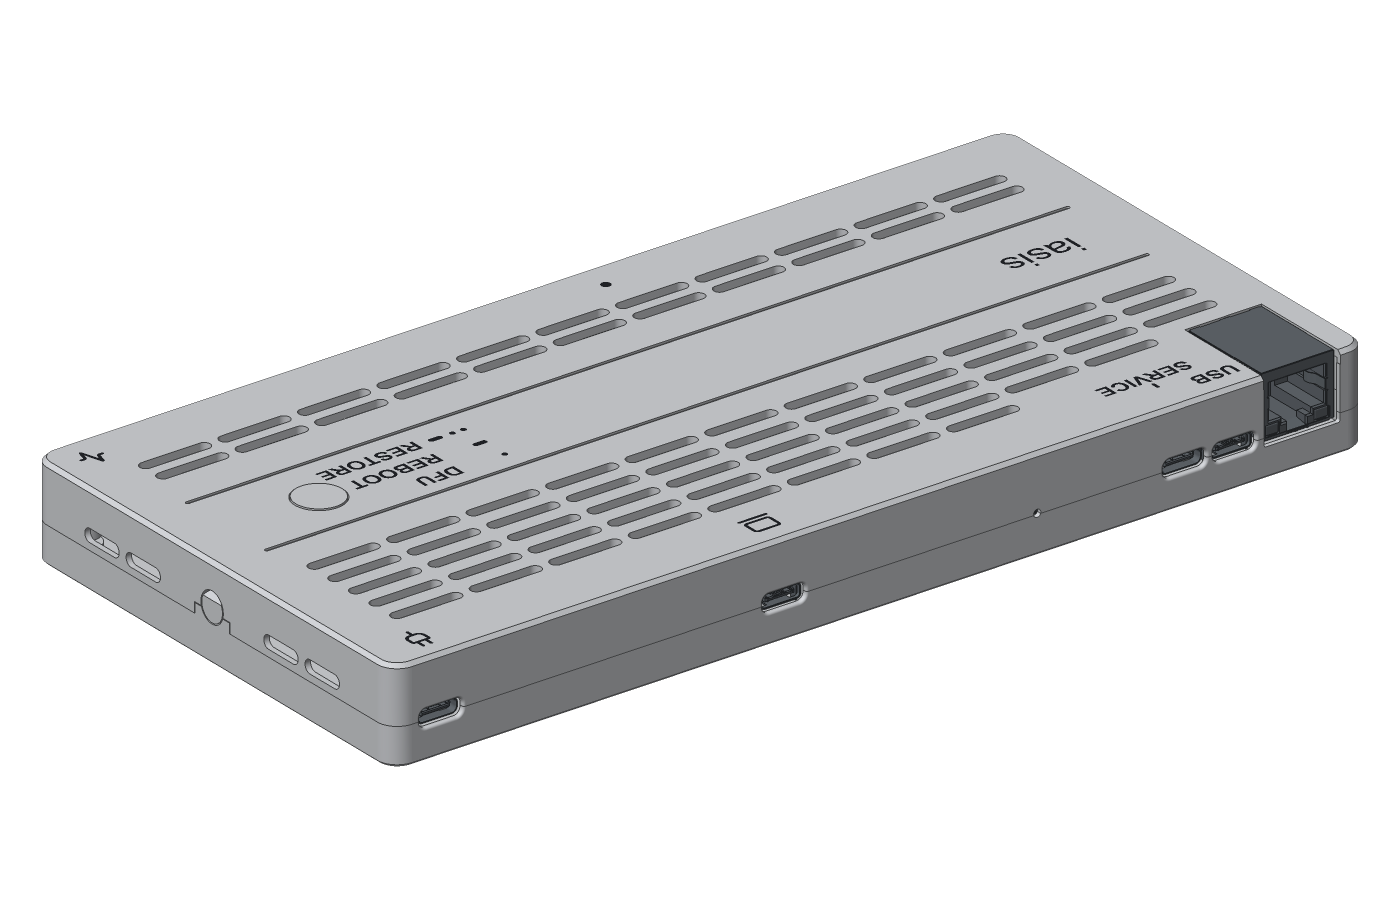
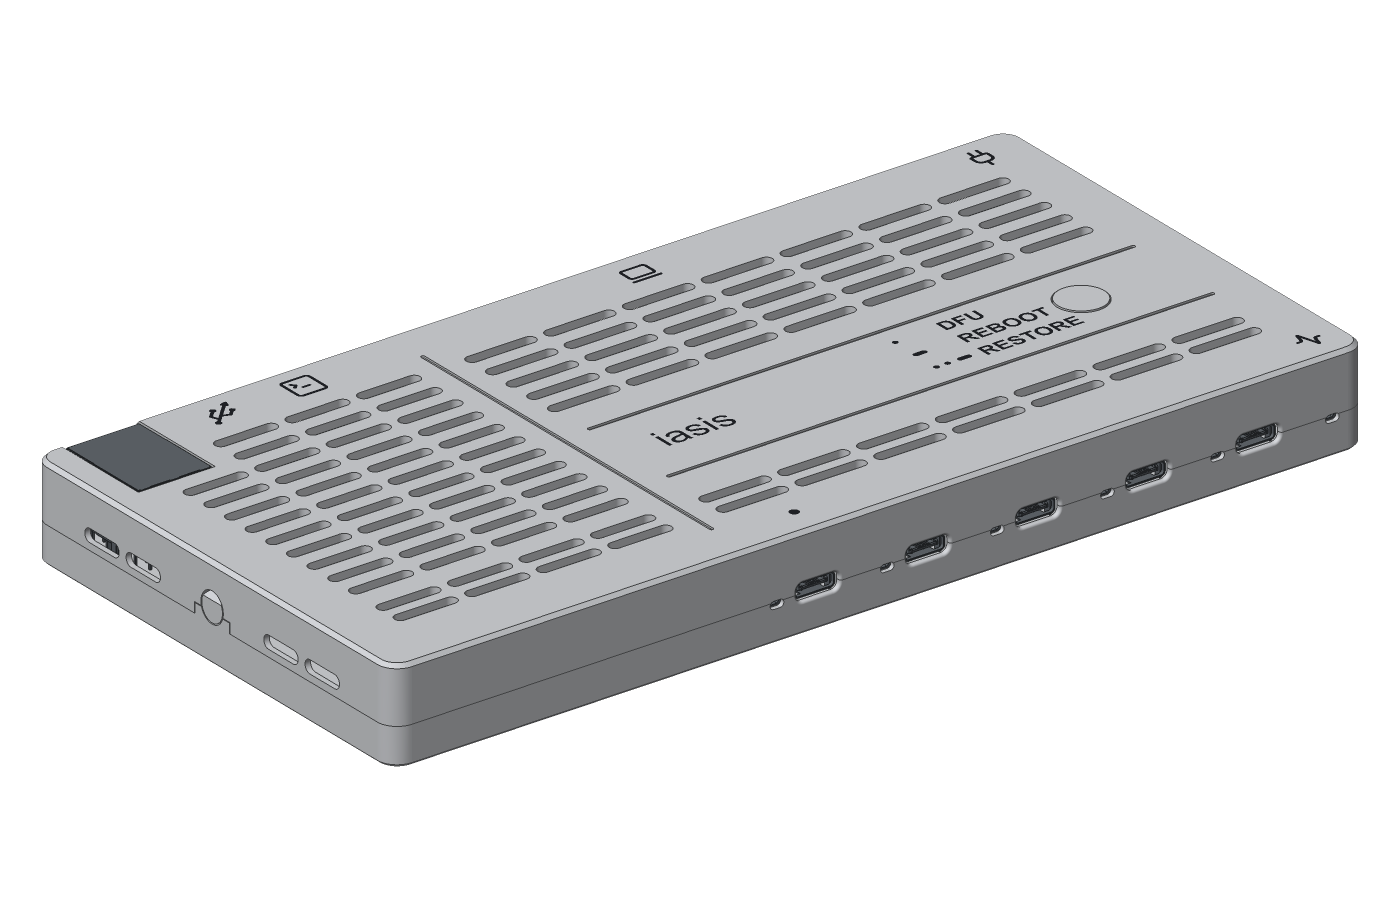
feat(case): separate CM5 cooling and controls

diff --git a/hardware/case/src/iasis_case/case.py b/hardware/case/src/iasis_case/case.py
@@ -47,7 +47,7 @@ from .artwork import icon
 from .board import Board, load
 from .retention import DisplayFrame, Joint
 from .side import assemble as side_board
-from .side import pair
+from .side import Pair, pair
 
 # Fit
 CLEARANCE = 0.3  # board edge to inner wall
@@ -224,6 +224,14 @@ class Layout:
     @property
     def y_rear(self) -> float:
         return self.width / 2
+
+    @property
+    def divider_x(self) -> float | None:
+        return self.board.join_x if isinstance(self.board, Pair) else None
+
+    @property
+    def control_left(self) -> float:
+        return self.divider_x + 6 if self.divider_x is not None else -self.length / 2 + 10
 
     @cached_property
     def openings(self) -> list[Opening]:
@@ -579,7 +587,7 @@ def _artwork(lay: Layout) -> list[Sketch]:
         Pos(power.X, lay.y_rear - 7) * icon("plug"),
         Pos(first.X, lay.y_front + 7) * Circle(1),
         Pos(status.X, lay.y_front + 7) * icon("activity", size=5.5),
-        Pos(-lay.length / 2 + 25, sw.Y)
+        Pos(lay.control_left + 15, sw.Y)
         * Text(WORDMARK, font_size=WORDMARK_SIZE),
     ]
     x = sw.X - 36
@@ -593,13 +601,10 @@ def _artwork(lay: Layout) -> list[Sketch]:
             marks.append(Pos(x, y) * Circle(0.6))
             if action == "RESTORE":
                 marks += [Pos(x + 2.4, y) * Circle(0.6), Pos(x + 6.1, y) * SlotOverall(3, 1.2)]
-    for ref, label, inset in (("S:J401", "USB", 6), ("S:J501", "SERVICE", 12)):
+    for ref, symbol in (("S:J401", "usb"), ("S:J501", "square-terminal")):
         if ref in lay.ports:
-            marks.append(Pos(lay.board.box(ref).center().X, lay.y_rear - inset)
-                         * Text(label, font_size=TEXT_SIZE, font_style=FontStyle.BOLD))
-    if "S:J501" in lay.ports:
-        marks.append(Pos(lay.board.box("S:J501").center().X, lay.y_rear - 8.6)
-                     * RectangleRounded(0.7, 2, 0.34))
+            marks.append(Pos(lay.board.box(ref).center().X, lay.y_rear - 7)
+                         * icon(symbol, size=8))
     return marks
 
 
@@ -648,10 +653,14 @@ def _display_keepout(lay: Layout, display: Display) -> Sketch:
 
 def _control_grooves(lay: Layout, top: float, display: Display | None) -> list[Part]:
     grooves = []
+    left, right = lay.control_left, lay.length / 2 - 10
     for y in (2, -21):
-        profile = Pos(0, y) * SlotOverall(lay.length - 20, 0.8)
+        profile = Pos((left + right) / 2, y) * SlotOverall(right - left, 0.8)
         if display:
             profile -= _display_keepout(lay, display)
+        grooves.append(extrude(Pos(0, 0, top - 0.4) * profile, amount=0.6))
+    if lay.divider_x is not None:
+        profile = Pos(lay.divider_x, 0) * RectangleRounded(0.8, lay.width - 20, 0.39)
         grooves.append(extrude(Pos(0, 0, top - 0.4) * profile, amount=0.6))
     return grooves
 
@@ -676,23 +685,30 @@ def _top_slots(lay: Layout, z: float, depth: float, display: Display | None) -> 
     if display:
         avoid.append(_display_keepout(lay, display).bounding_box())
     slots = []
-    span = lay.length - 24
-    count = math.ceil(span / 18)
-    length = (span - 2 * (count - 1)) / count
-    for y in (12, 18, 24, 30, 36, -32, -37):
-        for i in range(count):
-            x = -span / 2 + length / 2 + i * (length + 2)
-            profile = Pos(x, y, z) * SlotOverall(length, SLOT_W)
-            b = profile.bounding_box()
-            if any(
-                b.min.X < a.max.X + 2
-                and b.max.X > a.min.X - 2
-                and b.min.Y < a.max.Y + 2
-                and b.max.Y > a.min.Y - 2
-                for a in avoid
-            ):
-                continue
-            slots.append(extrude(profile, amount=depth))
+    rows = (12, 18, 24, 30, 36, -32, -37)
+    left, right = -lay.length / 2 + 12, lay.length / 2 - 12
+    zones = [(left, right, rows)] if lay.divider_x is None else [
+        (left, lay.divider_x - 5, (*rows, 6, 0, -6, -12, -18, -24)),
+        (lay.divider_x + 5, right, rows),
+    ]
+    for left, right, bands in zones:
+        span = right - left
+        count = math.ceil(span / 18)
+        length = (span - 2 * (count - 1)) / count
+        for y in bands:
+            for i in range(count):
+                x = left + length / 2 + i * (length + 2)
+                profile = Pos(x, y, z) * SlotOverall(length, SLOT_W)
+                b = profile.bounding_box()
+                if any(
+                    b.min.X < a.max.X + 2
+                    and b.max.X > a.min.X - 2
+                    and b.min.Y < a.max.Y + 2
+                    and b.max.Y > a.min.Y - 2
+                    for a in avoid
+                ):
+                    continue
+                slots.append(extrude(profile, amount=depth))
     return slots
 
 

diff --git a/hardware/case/src/iasis_case/artwork.py b/hardware/case/src/iasis_case/artwork.py
@@ -3,7 +3,9 @@
 from functools import lru_cache
 from pathlib import Path
 
-from build123d import Align, Face, Pos, Sketch, Wire, import_svg
+from build123d import Align, Compound, Face, Pos, Sketch, Wire, import_svg
+from OCP.BRepOffsetAPI import BRepOffsetAPI_MakeOffset
+from OCP.GeomAbs import GeomAbs_Arc
 
 
 @lru_cache
@@ -15,8 +17,23 @@ def icon(name: str, size: float = 7.0, stroke: float = 0.65) -> Sketch:
             raise TypeError(f"{name}: expected a stroke-only SVG")
         wire = shape.scale(size / 24)
         outline = Face(wire.offset_2d(stroke / 2))
+        if outline.normal_at().Z < 0:
+            outline = -outline
         if wire.is_closed:
-            outline -= Face(wire.offset_2d(-stroke / 2))
+            # Keep enclosed holes only when they are at least one printable stroke wide.
+            inset = BRepOffsetAPI_MakeOffset()
+            inset.Init(GeomAbs_Arc)
+            edges = wire.edges()
+            if len(edges) == 1:
+                wire = Wire([edges[0].trim(0, 0.5), edges[0].trim(0.5, 1)])
+            inset.AddWire(wire.wrapped)
+            inset.Perform(-stroke / 2)
+            if not inset.IsDone():
+                raise ValueError(f"{name}: could not inset closed stroke")
+            for inner in Compound(inset.Shape()).wires():
+                inner_size = inner.bounding_box().size
+                if min(inner_size.X, inner_size.Y) >= stroke:
+                    outline -= Face(inner)
         result += outline
     centre = result.bounding_box().center()
     return Pos(-centre.X, -centre.Y) * Sketch(result.faces())

diff --git a/hardware/case/src/iasis_case/preview.py b/hardware/case/src/iasis_case/preview.py
@@ -9,7 +9,7 @@ from . import case
 from .render import render, save
 
 PREVIEW = Path(__file__).resolve().parents[2] / "preview"
-VIEW, REAR_VIEW = (-300, -400, 250), (300, 400, 250)
+VIEW = (-300, -400, 250)
 BODY, TEXT = (214, 216, 220), (35, 38, 42)
 
 
@@ -19,10 +19,9 @@ def main() -> None:
     args = parser.parse_args()
     output = args.output.resolve() if args.output else PREVIEW
     output.mkdir(parents=True, exist_ok=True)
-    # The CM5 build is seen from the rear, where its side board ports are.
-    for name, view, (lay, tray, covers) in (
-        ("case.png", VIEW, case.assemble()),
-        ("case-cm5.png", REAR_VIEW, case.assemble_cm5()),
+    for name, (lay, tray, covers) in (
+        ("case.png", case.assemble()),
+        ("case-cm5.png", case.assemble_cm5()),
     ):
         visible = Compound([lay.board.parts[ref] for ref in (*lay.ports, *case.LIGHTS)])
         c = covers["passive"]
@@ -34,7 +33,7 @@ def main() -> None:
             (c.button, BODY),
             (visible, (100, 106, 112)),
         ]
-        if save(render(shown, view), output / name):
+        if save(render(shown, VIEW), output / name):
             print(f"{output / name} written")
 
 

diff --git a/hardware/case/src/iasis_case/side.py b/hardware/case/src/iasis_case/side.py
@@ -109,6 +109,12 @@ class Pair(Board):
     shift: Location = field(default_factory=Location)  # main board coordinates to these
     corner: float = 0.0
 
+    @property
+    def join_x(self) -> float:
+        """Centre of the gap between the boards, in enclosure coordinates."""
+        assert self.side is not None
+        return self.side.body.bounding_box().max.X + GAP / 2 + self.shift.position.X
+
     def outline(self) -> Face:
         bb = self.body.bounding_box()
         return (

diff --git a/hardware/case/README.md b/hardware/case/README.md
@@ -4,7 +4,7 @@ A screwless 3D-printable enclosure for Iasis, generated with [build123d](https:/
 
 <img src="preview/case.png" alt="Iasis enclosure" width="500">
 
-<img src="preview/case-cm5.png" alt="Iasis CM5 build enclosure from the rear" width="500">
+<img src="preview/case-cm5.png" alt="Iasis CM5 build enclosure" width="500">
 
 ## Build
 
@@ -38,7 +38,7 @@ The installed package also provides `iasis-case-build`, `iasis-case-preview`, `i
 
 Use a 0.4 mm nozzle and 0.20 mm layers, without supports. Print the button in the body colour. For multicolour covers, import the cover and its matching lettering STL together as parts of one object, preserving their positions, then assign filaments. Leave the lettering out for recessed markings.
 
-Print four TPU feet separately and secure them with adhesive in the underside recesses. Each foot is 12 mm diameter × 2 mm thick, with a 0.4 mm bottom chamfer. The recesses are 12.4 mm diameter × 0.8 mm deep, leaving 1.2 mm exposed before adhesive thickness. The floor is solid; side inlets above the board and top slot bands provide ventilation.
+Print four TPU feet separately and secure them with adhesive in the underside recesses. Each foot is 12 mm diameter × 2 mm thick, with a 0.4 mm bottom chamfer. The recesses are 12.4 mm diameter × 0.8 mm deep, leaving 1.2 mm exposed before adhesive thickness. The floor is solid; side inlets above the board and top slot bands provide ventilation. The CM5 side has additional vent rows above the cooler, separated from the hub controls by a shallow divider groove.
 
 Place the board on the tray pegs, insert the button from inside the cover, and press the cover down until both end catches engage. To open, press the two round end-wall pads inward and lift the cover vertically.
 
@@ -52,7 +52,7 @@ The cooler envelope reaches 12.21 mm above the carrier board underside. The inne
 
 Verify the supplied standoffs and thermal-pad contact with the CM5 before assembly; the clearance model does not establish thermal performance. Fit the cooler's screws from below before seating the side board, then fit the side-link flex into both vertical connectors, contacts toward the gap, and close their actuators, with the cover removed.
 
-A dot marks target port 1; laptop and plug icons identify host and power. The activity icon marks the Iasis status LED. The CM5 accessory port is labelled USB and its device/service port SERVICE; Ethernet has no top label. The action and CM5 port labels use 4.5 mm bold type, with approximately 3.3 mm capital height. USB and SERVICE sit on staggered rows, with a short leader for SERVICE. The three button rows use text with gesture marks:
+A dot marks target port 1; laptop and plug icons identify host and power. The activity icon marks the Iasis status LED. Lucide USB and terminal icons identify the CM5 accessory and service ports; Ethernet has no top label. The action labels use 4.5 mm bold type, with approximately 3.3 mm capital height. The three button rows use text with gesture marks:
 
 | Mark               | Gesture               | Action                   |
 | ------------------ | --------------------- | ------------------------ |
